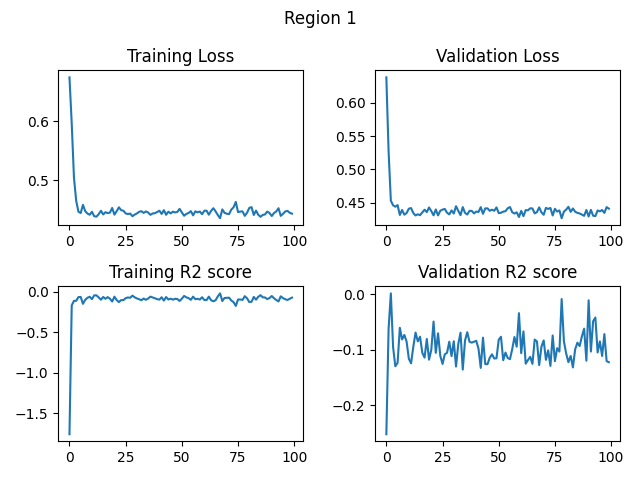
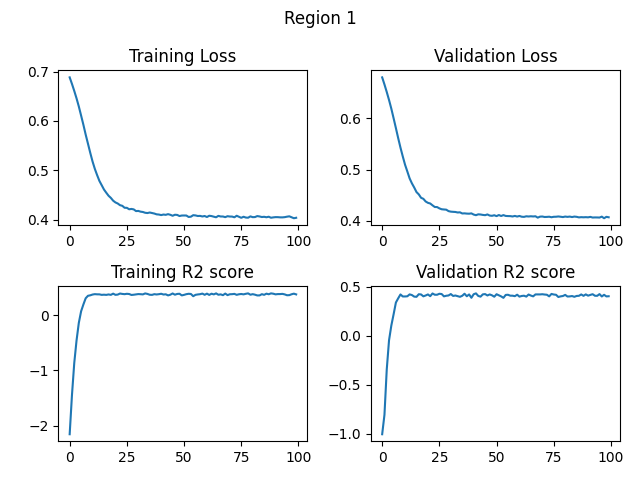
Vinh update code

diff --git a/eval.py b/eval.py
@@ -1,6 +1,7 @@
 import os
 import json
 import torch
+import numpy as np
 from sklearn.metrics import r2_score
 from model.hybrid_model import HybridModel
 from data.dataset import RegionDataset
@@ -33,17 +34,20 @@ def evaluation(dataloader, model, device):
     _r2_score /= batch+1
     return _r2_score, predictions, labels
 
-def run(dataloader, a1_freq_list, model_config, args, region, batch_size=1):
+def run(dataloader, dataset, imp_site_info_list, model_config, args, region):
     device = imputation._get_device(args.gpu)
     type_model = args.model_type
     model_dir = args.model_dir
-
+    result_gen_dir = args.result_gen_dir
+    chromosome = args.chromosome
+    a1_freq_list = dataset.a1_freq_list
     #Init Model
     model = HybridModel(model_config, a1_freq_list, device, type_model=type_model).float().to(device)
     model.load_state_dict(torch.load(os.path.join(model_dir, f'Best_{type_model}_region_{region}.pt')))
     print(f"Loaded {type_model}_{region} model")
     r2_test, predictions, labels = evaluation(dataloader, model, device)
-    plot_chart._draw_MAF_R2(predictions, labels, a1_freq_list, type_model,   region, bins=20)
+    imputation._write_gen(predictions, imp_site_info_list, chromosome, region, type_model, result_gen_dir)
+    plot_chart._draw_MAF_R2(predictions, labels, a1_freq_list, type_model, region, bins=20)
     print("Evalutate R2 score:", r2_test)
 
 def main():
@@ -55,19 +59,58 @@ def main():
     regions = args.regions.split("-")
     with open(os.path.join(root_dir, 'index.txt'),'w+') as index_file:
         index_file.write("0")
-    for region in range(int(regions[0]), int(regions[-1])+1):
-        print(f"----------Testing Region {region}----------")
-        with open(os.path.join(model_config_dir, f'region_{region}_config.json'), "r") as json_config:
-            model_config = json.load(json_config)
-            model_config['region'] = region
-        dataset = RegionDataset(root_dir, region, chromosome)
-        testloader = DataLoader(dataset, batch_size=batch_size, shuffle=True)
-        run(
-            testloader,
-            dataset.a1_freq_list,
-            model_config,
-            args, region,
-            batch_size,
+    
+    gen_file = os.path.join(args.result_gen_dir, f"{args.model_type}_{chromosome}.gen")
+    if os.path.exists(gen_file):
+        label_haplotype = []
+        predictions = []
+        a1_freq_list = []
+        for region in range(int(regions[0]), int(regions[-1])+1):
+            print(f"----------Get True Label Region {region}----------")
+            dataset = RegionDataset(root_dir, region, chromosome)
+            label_haplotype.append(dataset.label_haplotype_list)
+            a1_freq_list.append(dataset.a1_freq_list)
+        label_haplotype = np.concatenate(label_haplotype, axis=1)
+        a1_freq_list = np.concatenate(a1_freq_list)
+
+        with open(gen_file, 'r') as fp:
+            for line in fp:
+                items = line.rstrip().split()
+                hap = items[5:]
+                predictions.append(hap)
+        predictions = np.array(predictions, dtype=np.int).T
+        print(label_haplotype.shape, predictions.shape)
+        _r2_score = r2_score(
+            label_haplotype,
+            predictions
+        )
+        plot_chart._draw_MAF_R2(torch.tensor(predictions), torch.tensor(label_haplotype), a1_freq_list, args.model_type, args.regions, bins=20)
+        print("Evalutate R2 score:", _r2_score)
+    else:
+        for region in range(int(regions[0]), int(regions[-1])+1):
+            print(f"----------Testing Region {region}----------")
+            with open(os.path.join(model_config_dir, f'region_{region}_config.json'), "r") as json_config:
+                model_config = json.load(json_config)
+                model_config['region'] = region
+            dataset = RegionDataset(root_dir, region, chromosome)
+            testloader = DataLoader(dataset, batch_size=batch_size, shuffle=True)
+            imp_site_info_list = [
+                site_info
+                for site_info in dataset.site_info_list if not site_info.array_marker_flag
+            ]
+            run(
+                testloader,
+                dataset,
+                imp_site_info_list,
+                model_config,
+                args, 
+                region,
+            )
+        
+        imputation._merge_gen(
+            args.result_gen_dir,
+            args.model_type,
+            args.chromosome
         )
 
 if __name__ == "__main__":

diff --git a/utils/imputation.py b/utils/imputation.py
@@ -1,6 +1,7 @@
 import os
 import torch
 from sklearn.metrics import r2_score
+from data.load_data import *
 
 def _calc_loss_r2(x, y, model, loss_fn, r2):
     label = torch.flatten(y.T)
@@ -33,3 +34,26 @@ def _get_device(gpu=False):
         device = 'cpu'
         print("You're using CPU to impute genotype")
     return device
+
+def _write_gen(predictions, imp_site_info_list, chr, region, type_model, output_prefix):
+    output_prefix = os.path.join(output_prefix, f"{type_model}_{chr}_{region}.gen")
+    mkdir(os.path.dirname(output_prefix))
+    with open(output_prefix, 'wt') as fp:
+        for allele_probs, site_info in zip(predictions.T, imp_site_info_list):
+            line = '--- %s %s %s %s ' \
+                   % (site_info.id, site_info.position,
+                      site_info.a0, site_info.a1)
+            line += ' '.join([str(allele) for allele in allele_probs.tolist()])
+            fp.write(line)
+            fp.write('\n')
+
+def _merge_gen(folder_dir, type_model, chr):
+    print("DEBUG", folder_dir, os.path.join(folder_dir, f"{type_model}_{chr}.gen"))
+    gen = os.path.join(folder_dir, f"{type_model}_{chr}.gen")
+    mkdir(os.path.dirname(gen))
+    with open(gen, 'w+') as mergered_gen:
+        for gen in os.listdir(folder_dir):
+            if len(gen.split("_")) == 3:
+                with open(os.path.join(folder_dir, gen), 'r') as genfile:
+                    mergered_gen.write(genfile.read())
+            

diff --git a/train.py b/train.py
@@ -48,7 +48,7 @@ def train(dataloader, model, device, loss_fn, optimizer, scheduler, is_train=Tru
     train_loss /= batch+1
     return train_loss, _r2_score
 
-def run(dataloader, a1_freq_list, model_config, args, region, batch_size=1, epochs=200):
+def run(dataloader, a1_freq_list, model_config, args, region, epochs=200):
     device = imputation._get_device(args.gpu)
     type_model = args.model_type
     lr = args.learning_rate
@@ -64,7 +64,7 @@ def run(dataloader, a1_freq_list, model_config, args, region, batch_size=1, epoc
     print("Number of learnable parameters:",count_parameters(model))
     loss_fn = model.CustomCrossEntropyLoss
     optimizer = torch.optim.Adam(model.parameters(), lr=lr)
-    scheduler = torch.optim.lr_scheduler.StepLR(optimizer, step_size=100, gamma=0.5)
+    scheduler = torch.optim.lr_scheduler.StepLR(optimizer, step_size=400, gamma=0.5)
     early_stopping = EarlyStopping(patience=10)
 
     _r2_score_list, loss_values = [], [] #train
@@ -124,7 +124,6 @@ def main():
             model_config,
             args, 
             region,
-            batch_size,
             epochs
         )
 

diff --git a/model/gru_model.py b/model/gru_model.py
@@ -3,7 +3,7 @@ import torch
 from torch import nn
 
 class GRUModel(nn.Module):
-    def __init__(self, model_config, type_model):
+    def __init__(self, model_config, device, type_model):
         super(GRUModel,self).__init__()
         self.input_dim = model_config['input_dim']
         self.hidden_units = model_config['num_units']
@@ -16,8 +16,8 @@ class GRUModel(nn.Module):
         self.output_points_bw = model_config['output_points_bw']
         self.region = model_config['region']
         self.type_model = type_model
+        self._features = torch.tensor(np.load(f'model/features/region_{self.region}_model_features.npy')).to(device)
         # output_features = self.feature_size*10
-        self._features = torch.tensor(np.load(f'model/features/region_{self.region}_model_features.npy'))
         # self.features_1 = nn.ModuleList([nn.Linear(self.feature_size, output_features) for _ in range(self.num_inputs)])
         # self.features_1 = nn.Linear(self.feature_size, output_features)
         # self.batch_norm_1 = nn.BatchNorm1d(output_features)

diff --git a/model/hybrid_model.py b/model/hybrid_model.py
@@ -16,13 +16,13 @@ class HybridModel(nn.Module):
         if self.type_model == 'Higher' or self.type_model == 'Lower':
             gammar = 0.01
             gammar = gammar if self.type_model == 'Higher' else -gammar
-            self.gruModel = GRUModel(model_config, type_model=self.type_model)
+            self.gruModel = GRUModel(model_config, device, type_model=self.type_model)
         else:
             #TODO
             #Train higher and lower model to get weight models
             assert False
-            self.higherModel = GRUModel(model_config, type_model='Higher')
-            self.lowerModel = GRUModel(model_config, type_model='Lower')
+            self.higherModel = GRUModel(model_config, device, type_model='Higher')
+            self.lowerModel = GRUModel(model_config, device, type_model='Lower')
 
         self.CustomCrossEntropyLoss = CustomCrossEntropyLoss(a1_freq_list, device, gammar)
         self.softmax = nn.Softmax(dim=-1)

diff --git a/utils/argument_parser.py b/utils/argument_parser.py
@@ -27,5 +27,7 @@ def _get_argument():
                         dest='early_stopping', help='Early stopping')
     parser.add_argument('--model-dir', type=str, default='model/weights', required=False,
                         dest='model_dir', help='Weights model dir')
+    parser.add_argument('--result-gen-dir', type=str, default='results/', required=False,
+                        dest='result_gen_dir', help='result gen dir')
     args = parser.parse_args()
     return args
